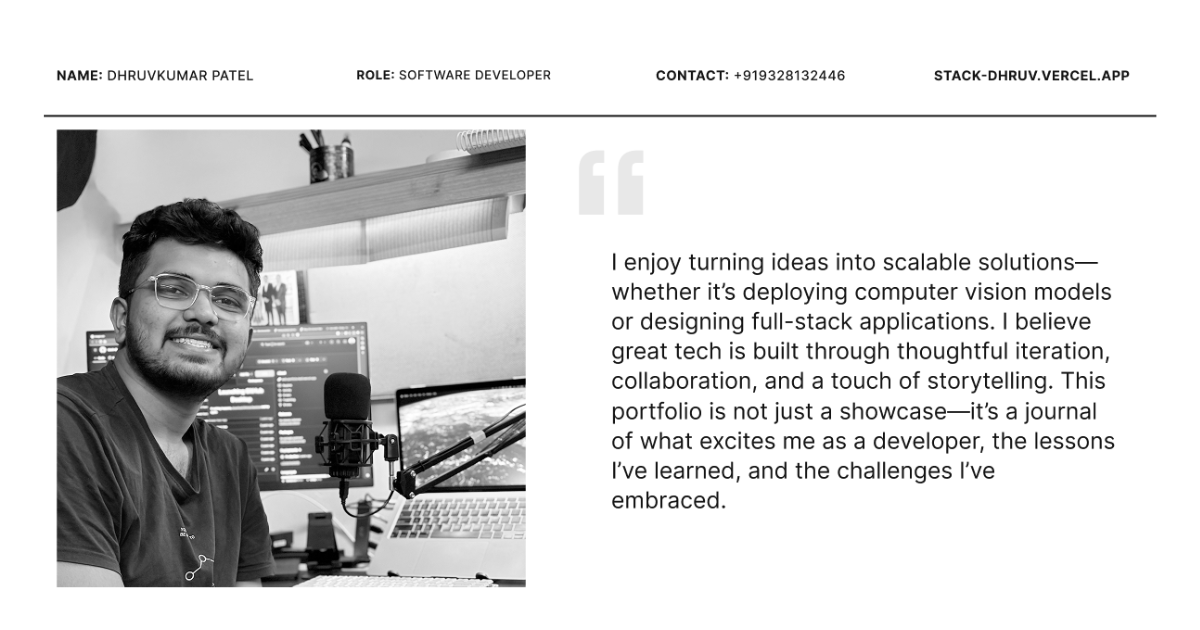
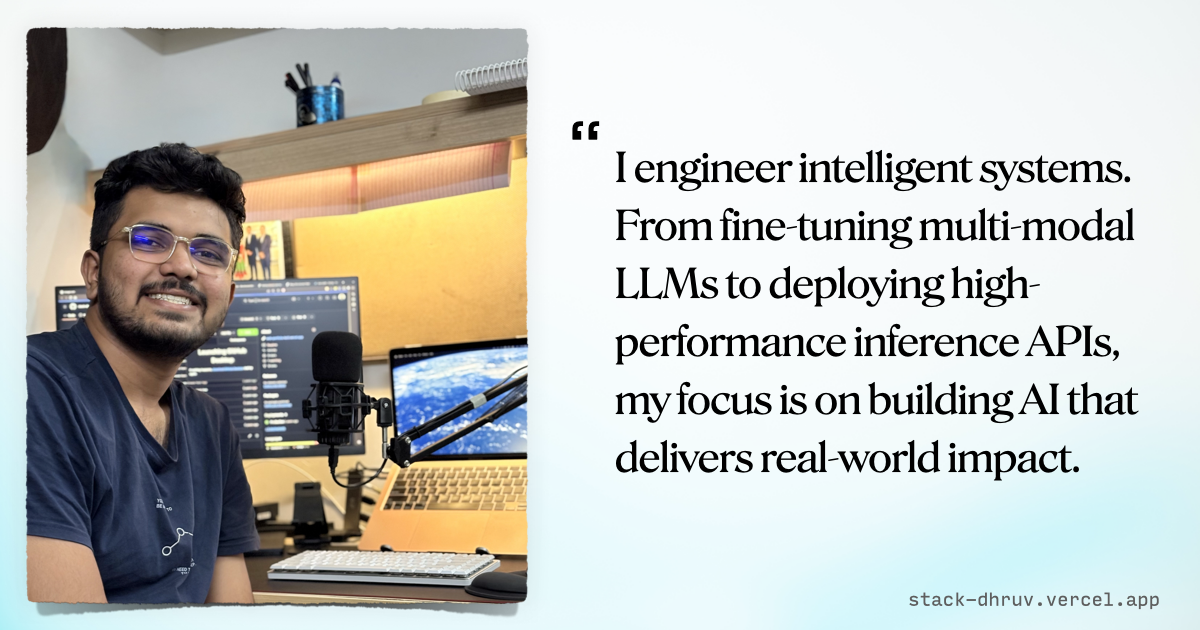
Major UI refactoring, added proemio

diff --git a/app/page.tsx b/app/page.tsx
@@ -1,10 +1,54 @@
 import Image from "next/image";
 import Link from "next/link";
-import { ArrowUpRight, Github } from "lucide-react"; // Import the Github icon
+import { ArrowUpRight, Github, FileText, Mail } from "lucide-react";
+import { FaLinkedinIn, FaXTwitter, FaGoogleScholar } from "react-icons/fa6";
 import { socialLinks } from "./config";
 import { projects } from "../app/projects/project-data";
 
-// Updated component: No 'isFeatured' prop. Hover effects are now universal.
+
+// --- Data for Research Publications ---
+const publications = [
+  {
+    title: "A Novel Approach to Predict the Student Dropout Rate Using Regression",
+    journal: "IEEE International Conference for Convergence in Technology (I2CT)",
+    year: "2024",
+    url: "https://ieeexplore.ieee.org/document/10543438",
+  },
+];
+
+// --- Reusable Entry Component for Projects & Publications ---
+function ListEntry({
+  title,
+  description,
+  url,
+}: {
+  title: string;
+  description: string;
+  url: string;
+}) {
+  return (
+    <Link
+      href={url}
+      target="_blank"
+      rel="noopener noreferrer"
+      className="group block p-4 rounded-lg transition-all duration-300 hover:bg-teal-50 dark:hover:bg-teal-900/50"
+    >
+      <div className="flex justify-between items-center">
+        <h3 className="font-semibold text-neutral-800 dark:text-neutral-200">
+          {title}
+        </h3>
+        <ArrowUpRight
+          className="w-5 h-5 text-teal-600 dark:text-teal-400 opacity-0 group-hover:opacity-100 transform transition-all duration-300 group-hover:-translate-y-1 group-hover:translate-x-1"
+          aria-hidden="true"
+        />
+      </div>
+      <p className="text-neutral-600 dark:text-neutral-400 text-sm mt-1">
+        {description}
+      </p>
+    </Link>
+  );
+}
+
 function ProjectEntry({
   title,
   description,
@@ -25,7 +69,6 @@ function ProjectEntry({
         <h3 className="font-semibold text-neutral-800 dark:text-neutral-200">
           {title}
         </h3>
-        {/* The arrow is now hidden by default and appears on group-hover */}
         <ArrowUpRight
           className="w-5 h-5 text-teal-600 dark:text-teal-400 opacity-0 group-hover:opacity-100 transform transition-all duration-300 group-hover:-translate-y-1 group-hover:translate-x-1"
           aria-hidden="true"
@@ -35,6 +78,20 @@ function ProjectEntry({
         {description}
       </p>
     </Link>
+  );
+}
+
+function SocialLink({ href, icon: Icon, children }) {
+  return (
+    <a
+      href={href}
+      target="_blank"
+      rel="noopener noreferrer"
+      className="flex items-center gap-2 text-sm text-neutral-600 dark:text-neutral-400 hover:text-teal-700 dark:hover:text-teal-400"
+    >
+      <Icon className="w-4 h-4" />
+      {children}
+    </a>
   );
 }
 
@@ -57,37 +114,35 @@ export default function Page() {
 
       <div className="prose prose-neutral dark:prose-invert">
         <p>
-          I'm an M.Tech CSE student at IIIT-Delhi and a Researcher at MIDAS Lab,
-          where I build scalable systems for AI. My work involves fine-tuning{" "}
-          <strong className="font-semibold">multi-modal LLMs</strong> and
-          engineering high-performance inference APIs with{" "}
-          <strong className="font-semibold">Python, FastAPI, and Celery</strong>.
+          I build scalable systems for AI. As a researcher at IIIT-Delhi's
+          MIDAS Lab, I turn complex challenges in multi-modal AI and computer
+          vision into production-ready solutions. My work has been recognized
+          at national hackathons and published by the IEEE.
         </p>
-        <p>
-          My passion is turning complex research into tangible impact. I've
-          improved production model accuracy by 4% with a custom{" "}
-          <strong className="font-semibold">C++/OpenCV</strong> data generator,
-          led teams to a national hackathon final (KAVACH-23), and won a
-          state-level competition that resulted in a published{" "}
-          <strong className="font-semibold">
-            <a href="https://ieeexplore.ieee.org/document/10543438">
-              IEEE conference paper
-            </a>
-          </strong>
-          .
-        </p>
-        <p>
-          I'm actively seeking roles where I can apply my expertise in{" "}
-          <strong className="font-semibold">
-            Computer Vision, AI/ML, and distributed systems
-          </strong>{" "}
-          to solve challenging problems.
-        </p>
+      </div>
+
+      {/* --- SOCIAL & RESUME LINKS --- */}
+      <div className="mt-8 flex flex-wrap items-center gap-x-6 gap-y-2">
+        <SocialLink href="/resume.pdf" icon={FileText}>
+          Resume
+        </SocialLink>
+        <SocialLink href={socialLinks.scholar} icon={FaGoogleScholar}>
+          Scholar
+        </SocialLink>
+        <SocialLink href={socialLinks.github} icon={Github}>
+          GitHub
+        </SocialLink>
+        <SocialLink href={socialLinks.linkedin} icon={FaLinkedinIn}>
+          LinkedIn
+        </SocialLink>
+        <SocialLink href={socialLinks.email} icon={Mail}>
+          Email
+        </SocialLink>
       </div>
 
       {/* --- PROJECTS SECTION --- */}
       <div className="mt-6">
-        <h2 className="font-serif text-xl font-bold mb-2 text-neutral-900 dark:text-neutral-100">
+        <h2 className="font-serif text-xl font-bold text-neutral-900 dark:text-neutral-100">
           Projects
         </h2>
         <div className="space-y-0">
@@ -100,23 +155,36 @@ export default function Page() {
             />
           ))}
         </div>
-        
-        {/* --- UPDATED GITHUB LINK SECTION --- */}
-        <div className="mt-2 flex items-center justify-center gap-3 p-2 bg-teal-50/50 dark:bg-teal-900/20 border border-teal-100 dark:border-teal-900 rounded-lg text-sm text-neutral-600 dark:text-neutral-400">
-          <Github className="w-5 h-5 text-neutral-500 dark:text-neutral-500" />
-          <span>
-            Feel free to explore my{' '}
-            <a
-              href={socialLinks.github}
-              target="_blank"
-              rel="noopener noreferrer"
-              className="font-semibold text-teal-700 dark:text-teal-400 underline hover:no-underline"
-            >
-              GitHub
-            </a>
-            {' '}for more projects.
-          </span>
+      </div>
+
+      {/* --- RESEARCH PUBLICATIONS SECTION --- */}
+      <div className="mt-6">
+        <h2 className="font-serif text-xl font-bold text-neutral-900 dark:text-neutral-100">
+          Research Publications
+        </h2>
+        <div className="space-y-1">
+          {publications.map((pub) => (
+            <ListEntry
+              key={pub.title}
+              title={pub.title}
+              description={`${pub.journal}, ${pub.year}`}
+              url={pub.url}
+            />
+          ))}
         </div>
+      </div>
+
+      <div className="mt-3 p-3 bg-neutral-200/35 dark:bg-neutral-900/50 rounded-lg text-sm text-center text-neutral-600 dark:text-neutral-400">
+        <span>Feel free to explore my </span>
+        <a
+          href={socialLinks.github}
+          target="_blank"
+          rel="noopener noreferrer"
+          className="font-semibold text-teal-700 dark:text-teal-400 hover:underline"
+        >
+          GitHub
+        </a>
+        <span> for more projects. Most of them are open-source.</span>
       </div>
     </section>
   );

diff --git a/app/layout.tsx b/app/layout.tsx
@@ -30,6 +30,8 @@ export const metadata: Metadata = {
     template: `%s | ${metaData.title}`,
   },
   description: metaData.description,
+  // Link to the web manifest for PWA-like features
+  manifest: "/site.webmanifest",
   openGraph: {
     images: metaData.ogImage,
     title: metaData.title,
@@ -54,8 +56,14 @@ export const metadata: Metadata = {
     title: metaData.name,
     card: "summary_large_image",
   },
+  // Comprehensive icons setup
   icons: {
-    icon: "/favicon.ico",
+    icon: [
+      { url: '/favicon.ico', sizes: 'any' },
+      { url: '/favicon-16x16.png', type: 'image/png', sizes: '16x16' },
+      { url: '/favicon-32x32.png', type: 'image/png', sizes: '32x32' },
+    ],
+    apple: '/apple-touch-icon.png',
   },
 };
 
@@ -65,21 +73,38 @@ export default function RootLayout({
   children: React.ReactNode;
 }) {
   return (
-    // +++ APPLY FONT VARIABLES TO HTML ELEMENT +++
     <html lang="en" className={`${headingFont.variable} ${epilogue.variable}`}>
       <head>
-        {/* ... (head content remains the same) */}
+        {/* These links are still good practice for RSS readers */}
+        <link
+          rel="alternate"
+          type="application/rss+xml"
+          href="/rss.xml"
+          title="RSS Feed"
+        />
+        <link
+          rel="alternate"
+          type="application/atom+xml"
+          href="/atom.xml"
+          title="Atom Feed"
+        />
+        <link
+          rel="alternate"
+          type="application/feed+json"
+          href="/feed.json"
+          title="JSON Feed"
+        />
+        <meta name="google-site-verification" content="t1PASftHKLAyYzTyc5iydqLh9Mqb_TjJRWTx_sTtFv8" />
+        <meta name="apple-mobile-web-app-title" content="Dhruv's Portfolio" />
       </head>
-      {/* --- MODIFY BODY CLASSNAME --- */}
-      <body className="antialiased flex flex-col items-center justify-center mx-auto mb-20 lg:mb-40 font-sans">
+      <body className="antialiased flex flex-col items-center min-h-screen">
         <ThemeProvider
           attribute="class"
           defaultTheme="system"
           enableSystem
           disableTransitionOnChange
         >
-          {/* --- MODIFY MAIN CLASSNAME --- */}
-          <main className="flex-auto min-w-0 flex flex-col px-6 sm:px-4 md:px-0 max-w-[624px] w-full">
+          <main className="flex-auto min-w-0 flex flex-col px-6 sm:px-4 md:px-0 max-w-[624px] w-full mb-20">
             <Navbar />
             {children}
             <Footer />

diff --git a/app/proemio/page.tsx b/app/proemio/page.tsx
@@ -1,0 +1,52 @@
+import type { Metadata } from "next";
+
+export const metadata: Metadata = {
+  title: "Proemio",
+  description: "The philosophy and technology behind this website.",
+};
+
+const personalStack = [
+  { name: "VS Code", description: "My primary code editor, customized for efficiency." },
+  { name: "Notion", description: "For project management, note-taking, and personal organization." },
+  { name: "PenPot", description: "For UI/UX design, prototyping, and visual brainstorming." },
+  { name: "iTerm2", description: "A versatile and powerful terminal for macOS." },
+];
+
+function StackListItem({ name, description }: { name: string; description: string }) {
+  return (
+    <li>
+      <span className="font-semibold text-neutral-800 dark:text-neutral-200">{name}</span>
+      <span className="text-neutral-600 dark:text-neutral-400"> — {description}</span>
+    </li>
+  );
+}
+
+export default function ProemioPage() {
+  return (
+    <section>
+      <h1 className="font-serif text-4xl font-bold text-teal-700 dark:text-teal-400">
+        Proemio
+      </h1>
+      <p className="mt-2 text-lg text-neutral-600 dark:text-neutral-400">
+        /proˈɛ.mi.o/ — an introduction or preface, especially to a speech or literary work.
+      </p>
+
+      <div className="mt-4 prose prose-neutral dark:prose-invert max-w-none">
+        <p>
+          This portfolio is more than just a collection of projects; it's a preface to my approach as a developer and researcher. It serves as an introduction to how I think, solve problems, and translate complex ideas into clean, functional, and scalable solutions.
+        </p>
+        <p>
+          Every element, from the typography to the page transitions, was deliberately chosen to create an experience that is fast, accessible, and hopefully, a pleasure to explore. This site is a living document—a snapshot of my ongoing journey in the world of technology.
+        </p>
+
+        <p className="font-serif text-lg font-semibold">Personal Stack
+        </p>
+        <ul>
+          {personalStack.map((item) => (
+            <StackListItem key={item.name} name={item.name} description={item.description} />
+          ))}
+        </ul>
+      </div>
+    </section>
+  );
+}

diff --git a/app/components/mdx.tsx b/app/components/mdx.tsx
@@ -62,7 +62,7 @@ function Strikethrough(props) {
 
 function Callout(props) {
   return (
-    <div className="px-4 py-3 bg-[#F7F7F7] dark:bg-[#181818] rounded p-1 text-sm flex items-center text-neutral-900 dark:text-neutral-100 mb-8">
+    <div className="px-4 py-3 bg-neutral-200/35 dark:bg-[#181818] rounded p-1 text-sm flex items-center text-neutral-900 dark:text-neutral-100 mb-8">
       <div className="flex items-center w-4 mr-4">{props.emoji}</div>
       <div className="w-full callout leading-relaxed">{props.children}</div>
     </div>

diff --git a/app/config.ts b/app/config.ts
@@ -13,5 +13,6 @@ export const socialLinks = {
   instagram: "https://www.instagram.com/dhruv_1563_",
   linkedin: "https://www.linkedin.com/in/stack-dhruv",
   email: "mailto:iamdhruv1563@gmail.com",
-  orcid: "https://orcid.org/0009-0005-6466-7650"
+  orcid: "https://orcid.org/0009-0005-6466-7650",
+  scholar: "https://scholar.google.com/citations?user=RZULQawAAAAJ&hl=en",
 };

diff --git a/app/blog/[slug]/page.tsx b/app/blog/[slug]/page.tsx
@@ -87,7 +87,7 @@ export default async function Blog({ params }) {
           }),
         }}
       />
-      <h1 className="title mb-3 font-medium text-2xl">
+      <h1 className="title mb-3 font-medium text-3xl">
         {post.metadata.title}
       </h1>
       <div className="flex justify-between items-center mt-2 mb-8 text-medium">

diff --git a/app/global.css b/app/global.css
@@ -134,8 +134,8 @@ h6 {
 
 .prose > :first-child {
   /* Override removing top margin, causing layout shift */
-  margin-top: 1.25em !important;
-  margin-bottom: 1.25em !important;
+  margin-top: 1.125em !important;
+  margin-bottom: 1.125em !important;
 }
 
 pre::-webkit-scrollbar {

diff --git a/app/components/nav.tsx b/app/components/nav.tsx
@@ -3,6 +3,7 @@ import { ThemeSwitch } from "./theme-switch";
 import { Logo } from "./logo";
 
 const navItems = {
+  "/proemio": {name: "Proemio"},
   "/blog": { name: "Blog" },
   "/projects": { name: "Projects" },
   "/cv": { name: "CV" }, // Changed from /education to /cv
